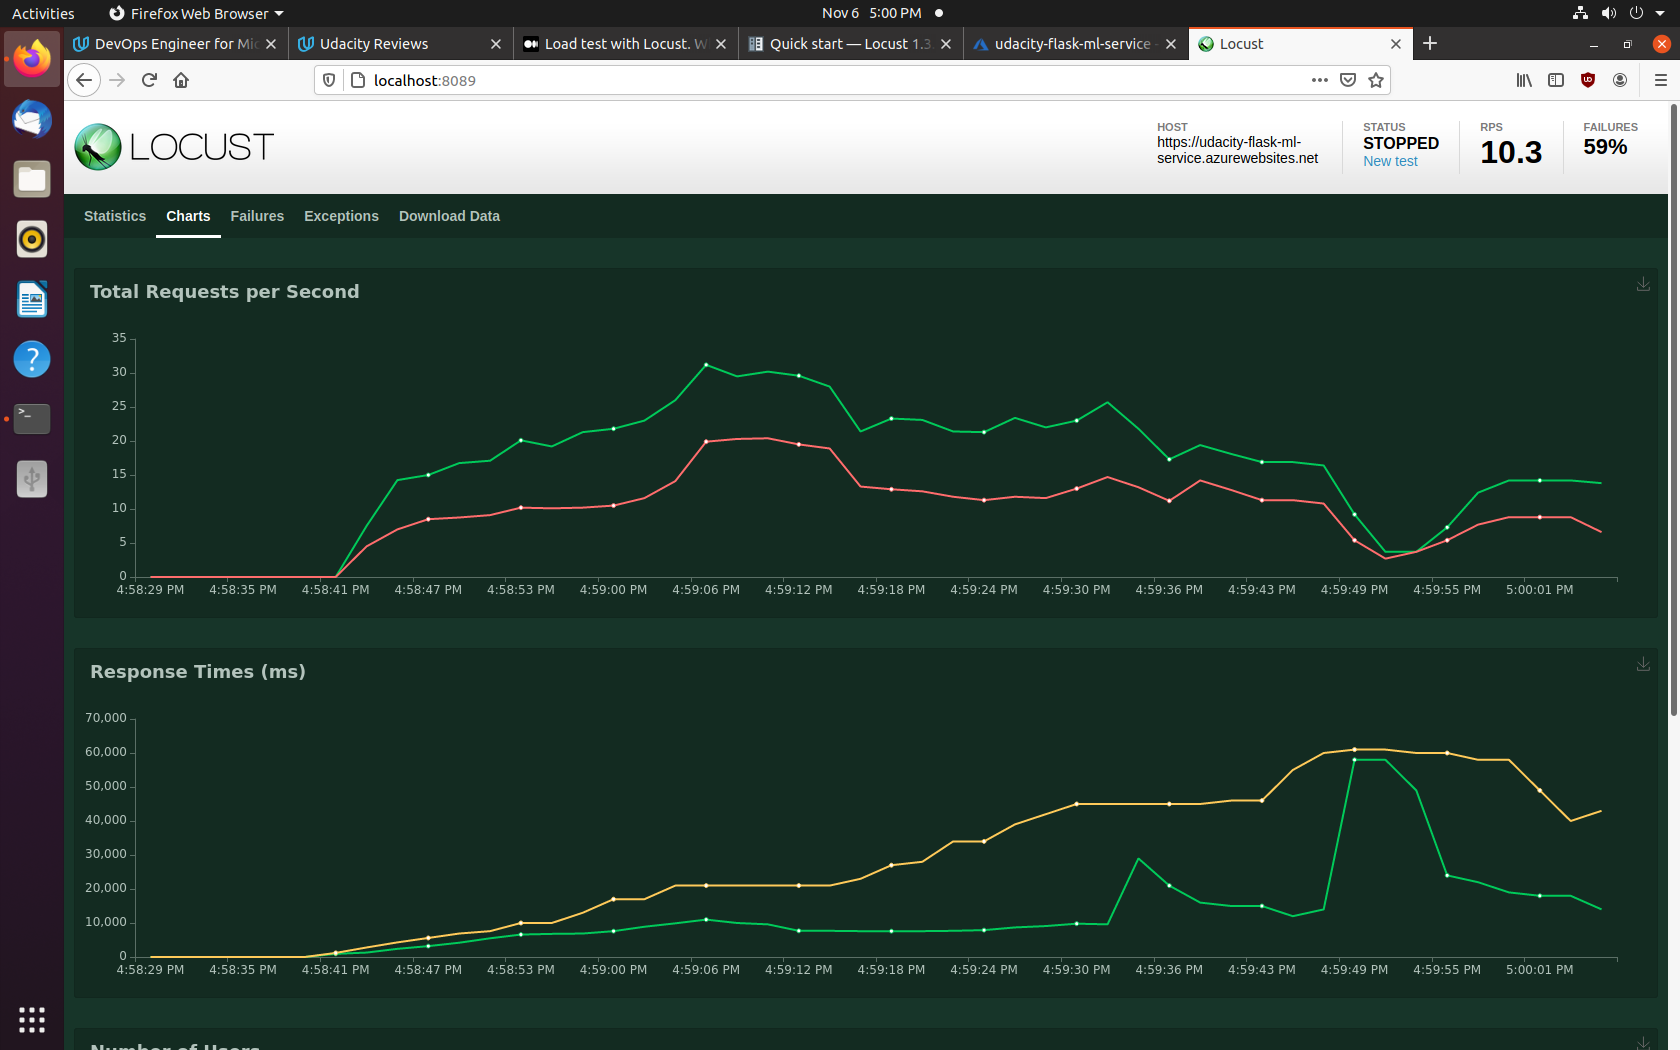
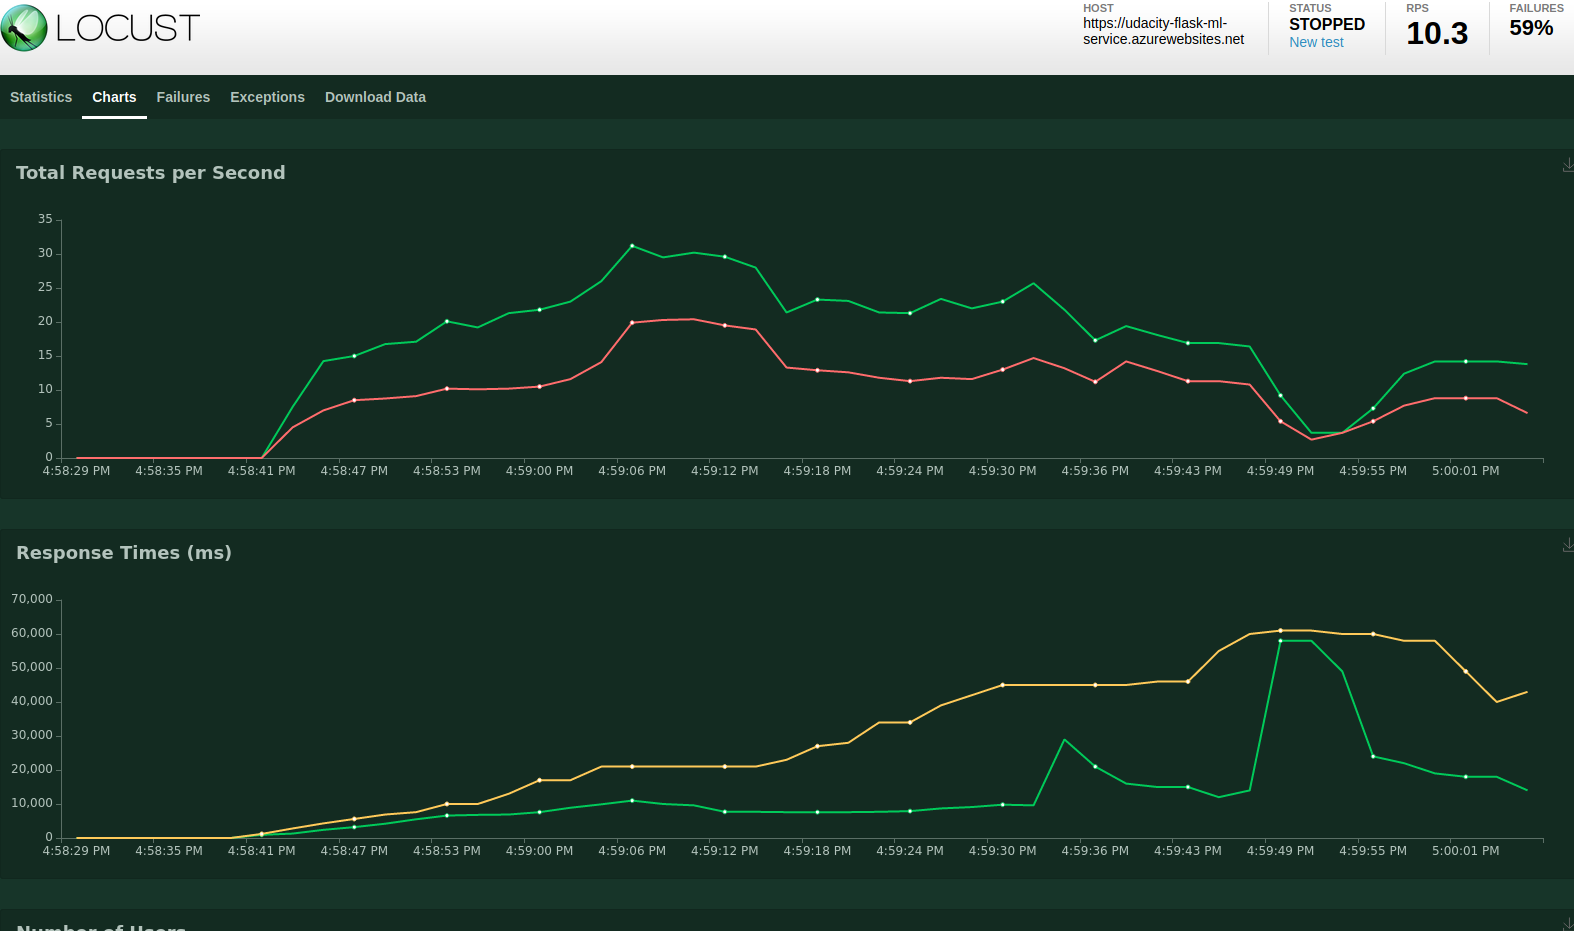
update README

diff --git a/README.md b/README.md
@@ -176,6 +176,9 @@ Now go back to the Azure Cloud Shell and check to make sure the microservice act
 
 ![](images/Screenshot-final-test.png)
 
+As a fun bonus, the project contains a locust file `locustfile.py` which you can use to max out the F1 tier Azure App!
+
+![](images/Screenshot-locust.png)
 
 ## Enhancements
 
